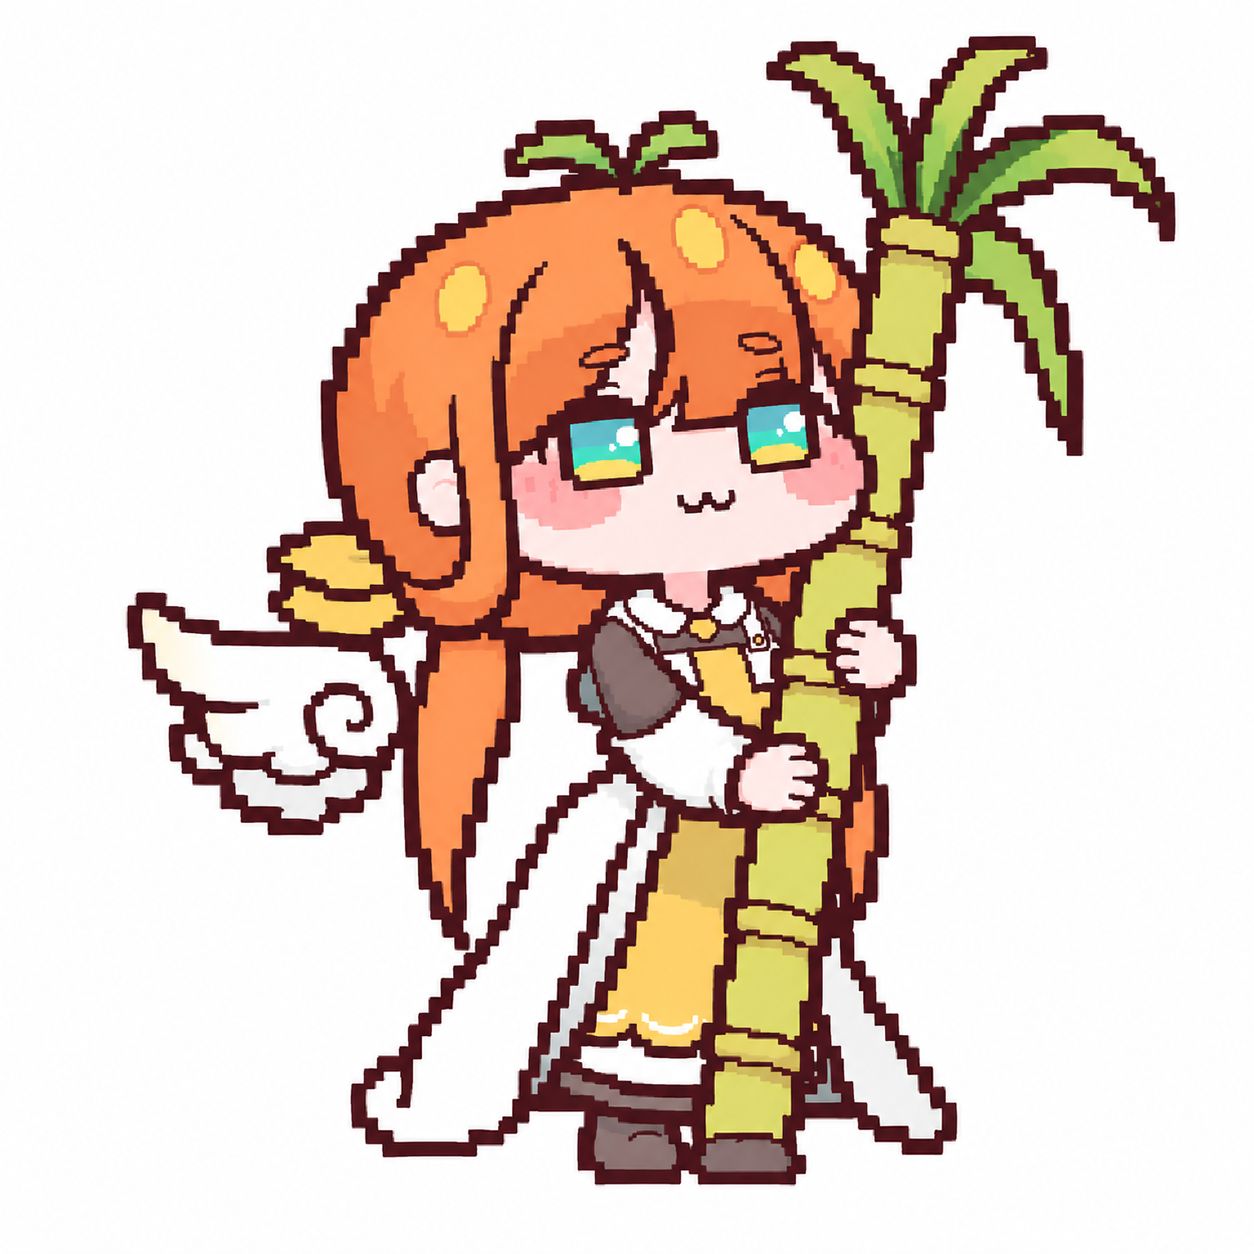
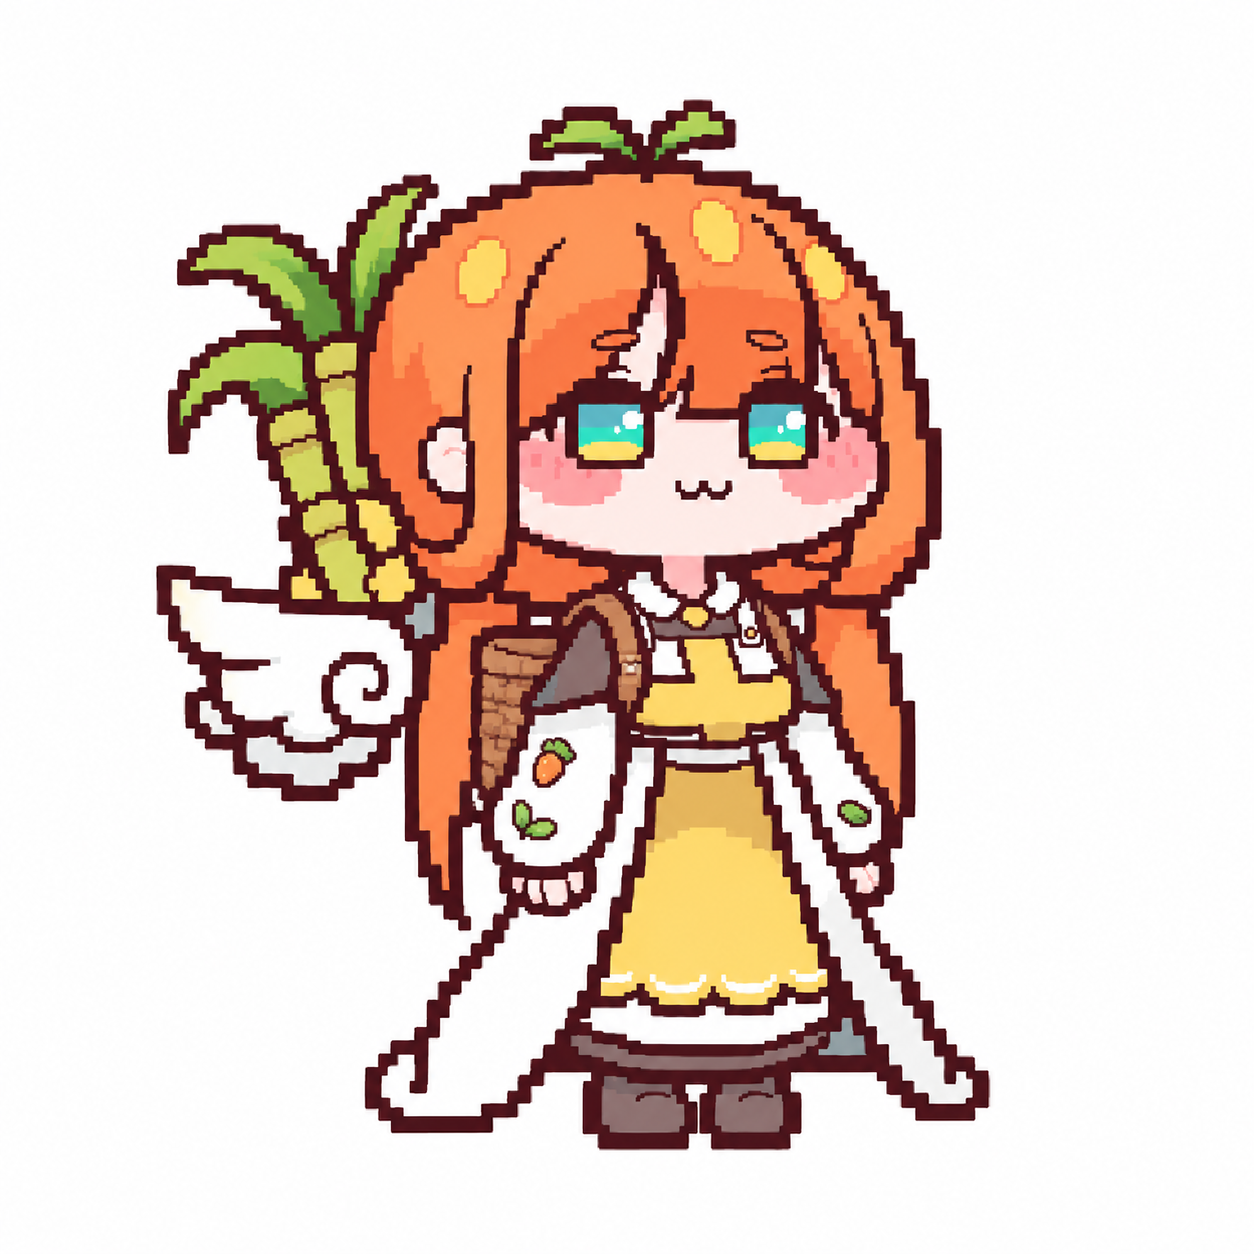
기준 도트를 등 바구니(사탕수수) 버전으로 교체

Changed region(s): [[0.0933, 0.0311, 0.9641, 0.9641]]

diff --git a/기획서.md b/기획서.md
@@ -1,6 +1,6 @@
 # 캬롯 앱 텃밭 — 기획서
 
-작성 2026-11-18. 2026-11-19 스피키로 잠시 바꿨다가 캬롯으로 복귀. 상태: 기준 그림 확정(art/final/carrot_master.png, 사탕수수 안은 도트), 모션 제작 중.
+작성 2026-11-18. 2026-11-19 스피키로 잠시 바꿨다가 캬롯으로 복귀. 상태: 기준 그림 확정(art/final/carrot_master.png = 사탕수수를 바구니에 넣어 등에 멘 도트, 2026-11-19 사용자 승인. 옛 사탕수수 안기 버전은 carrot_master_cane.png), 모션 제작 중.
 
 ## 한 줄 요약
 
@@ -83,7 +83,7 @@
 
 ## 모션 계획 (2026-11-19, 기준 그림 art/final/carrot_master.png)
 
-- 기본 자세 = 사탕수수를 두 팔로 끌어안고 볼이 살짝 눌린 대기. 손이 필요한 동작(뽑기·가위·물 주기)만 사탕수수를 옆 땅에 꽂아 두고 끝나면 다시 안는다.
+- 기본 자세 = 사탕수수 꽂힌 바구니를 등에 메고 두 팔은 자유(사용자 결정: 안고 그리기 어려워서 등 바구니로). 사탕수수 한입은 바구니에서 한 줄기 뽑아 씹기.
 - 모든 키 그림은 새 GPT 대화에 기준 그림을 첫 장으로, 자세는 글로. 중간 그림은 앞뒤 키 2장 + "딱 중간 순간". 크기·위치·도트 굵기는 기준 그림과 같게(대기에서 이어져야 함).
 
 | # | 모션 | 기능 연결 |
